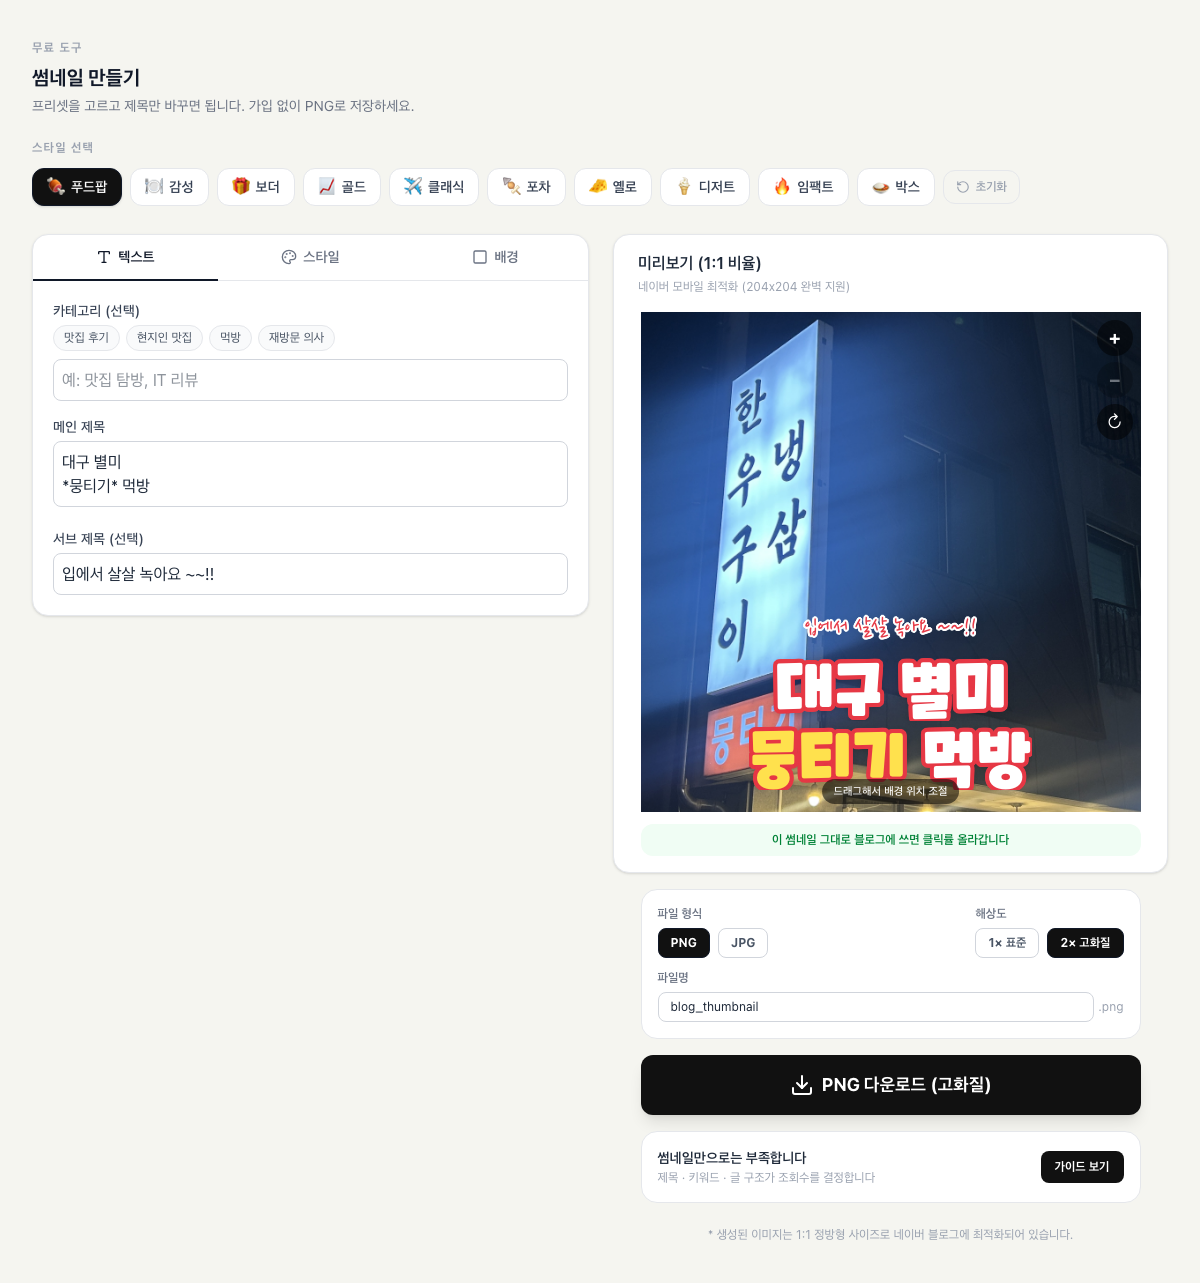
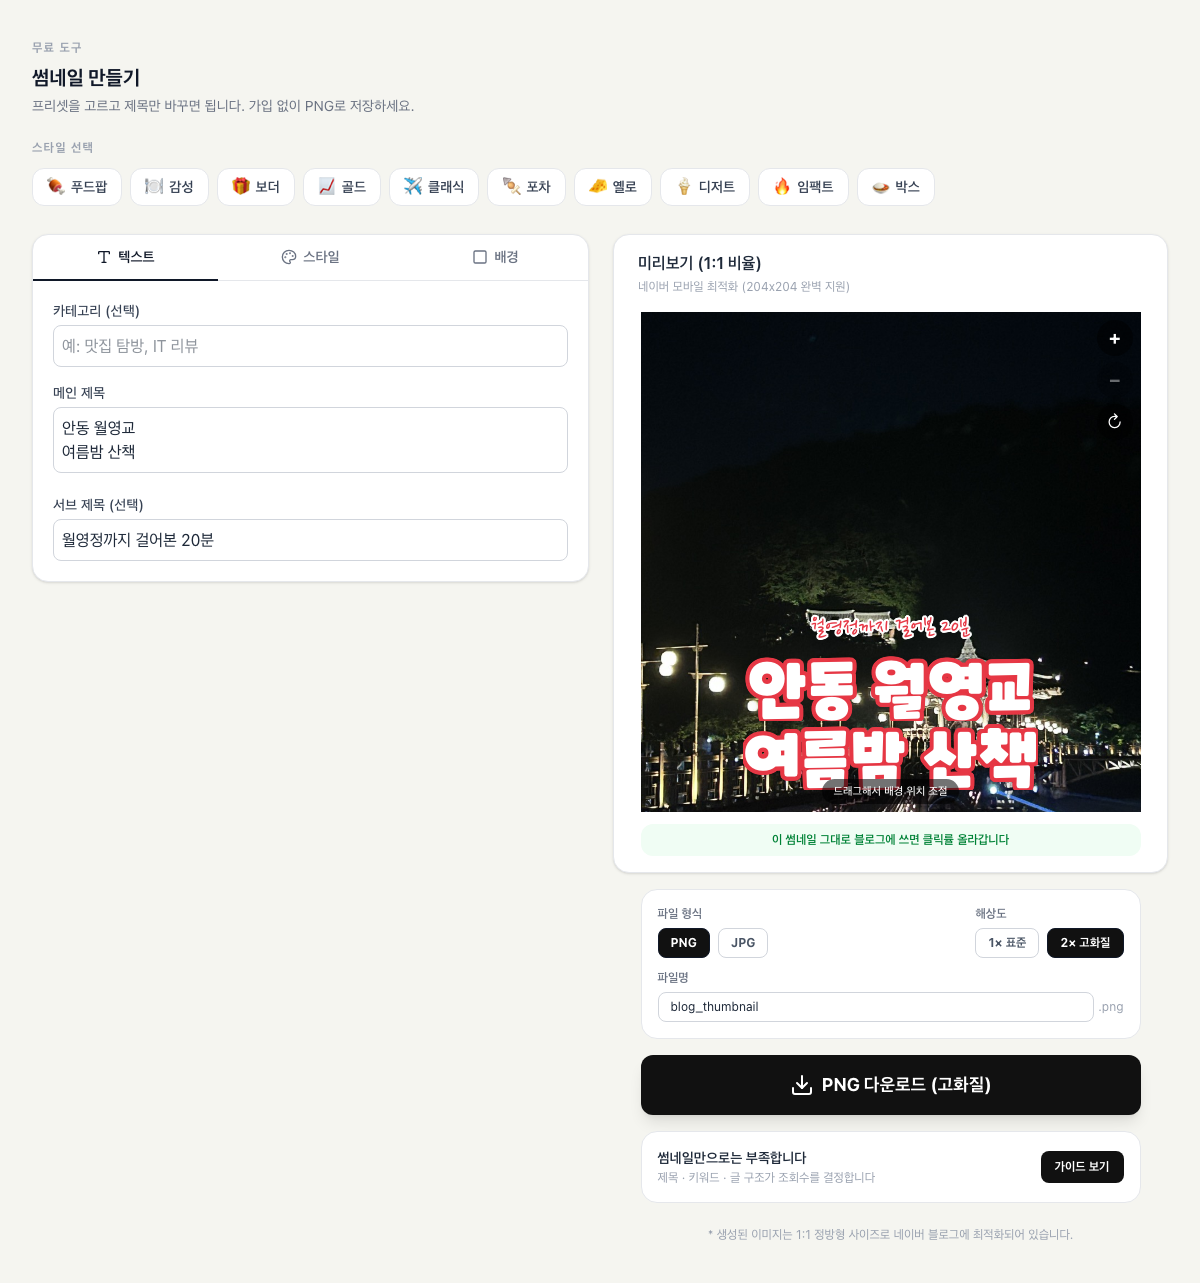
썸네일 캡처 배경을 직접 찍은 풍경 사진으로 교체

Changed region(s): [[0.5242, 0.2182, 0.9558, 0.6547], [0.0308, 0.2494, 0.4625, 0.4677], [0.0308, 0.1247, 0.1233, 0.1871]]

diff --git a/scripts/shot-specs.ts b/scripts/shot-specs.ts
@@ -1,6 +1,7 @@
 export type ShotAction =
   | { type: 'click'; selector: string }
-  | { type: 'fill'; selector: string; value: string };
+  | { type: 'fill'; selector: string; value: string }
+  | { type: 'upload'; selector: string; file: string };
 
 export type ShotSpec = {
   id: string;
@@ -12,20 +13,34 @@ export type ShotSpec = {
 
 const DESKTOP = { width: 1200, height: 900 };
 const SKIN_EDITOR = 'div.lg\\:flex-row:has(h3:has-text("미리보기"))';
+// 배경은 프리셋 기본 사진(매장 사진) 대신 직접 찍은 공공장소 풍경으로 교체한다. EXIF 제거본.
+const uploadBg = (file: string): ShotAction[] => [
+  { type: 'click', selector: '#tool button:has-text("배경")' },
+  { type: 'upload', selector: '#tool input[type="file"]', file: `scripts/shot-assets/${file}` },
+];
+const TEXT_TAB: ShotAction = { type: 'click', selector: '#tool button:has-text("텍스트")' };
 const SKIN_PREVIEW = 'div.bg-white:has(> h3:has-text("미리보기"))';
 
 export const shotSpecs: ShotSpec[] = [
   {
     id: 'thumb-default',
     path: '/',
-    actions: [],
+    actions: [
+      ...uploadBg('bg-andong-woryeonggyo-night.jpg'),
+      TEXT_TAB,
+      { type: 'fill', selector: '[placeholder="포스팅 제목을 입력하세요"]', value: '안동 월영교\n여름밤 산책' },
+      { type: 'fill', selector: 'input[placeholder="보충 설명을 입력하세요"]', value: '월영정까지 걸어본 20분' },
+    ],
     selector: 'section#tool',
     viewport: DESKTOP,
   },
   {
     id: 'thumb-preset',
     path: '/',
-    actions: [{ type: 'click', selector: '#tool button:has-text("골드")' }],
+    actions: [
+      { type: 'click', selector: '#tool button:has-text("골드")' },
+      ...uploadBg('bg-nodeul-sunset.jpg'),
+    ],
     selector: '[data-testid="thumb-preview"]',
     viewport: DESKTOP,
   },
@@ -34,6 +49,8 @@ export const shotSpecs: ShotSpec[] = [
     path: '/',
     actions: [
       { type: 'click', selector: '#tool button:has-text("임팩트")' },
+      ...uploadBg('bg-yeouido-hangang-day.jpg'),
+      TEXT_TAB,
       { type: 'fill', selector: '[placeholder="포스팅 제목을 입력하세요"]', value: '제목은\n두 줄 안에' },
       { type: 'fill', selector: 'input[placeholder="보충 설명을 입력하세요"]', value: '서브카피로 내용 보충' },
     ],

diff --git a/scripts/capture-tool-shots.ts b/scripts/capture-tool-shots.ts
@@ -15,7 +15,8 @@ try {
     for (const a of spec.actions) {
       const el = page.locator(a.selector).first();
       if (a.type === 'click') await el.click();
-      else await el.fill(a.value);
+      else if (a.type === 'fill') await el.fill(a.value);
+      else await el.setInputFiles(a.file);
     }
     const target = page.locator(spec.selector).first();
     await target.scrollIntoViewIfNeeded();
@@ -28,6 +29,7 @@ try {
         if (pos === 'fixed') el.style.visibility = 'hidden';
       });
       document.querySelector<HTMLElement>('nextjs-portal')?.style.setProperty('display', 'none');
+      (document.activeElement as HTMLElement | null)?.blur();
       await document.fonts.ready;
       await Promise.all(
         Array.from(document.images).map((img) => img.decode().catch(() => undefined)),
